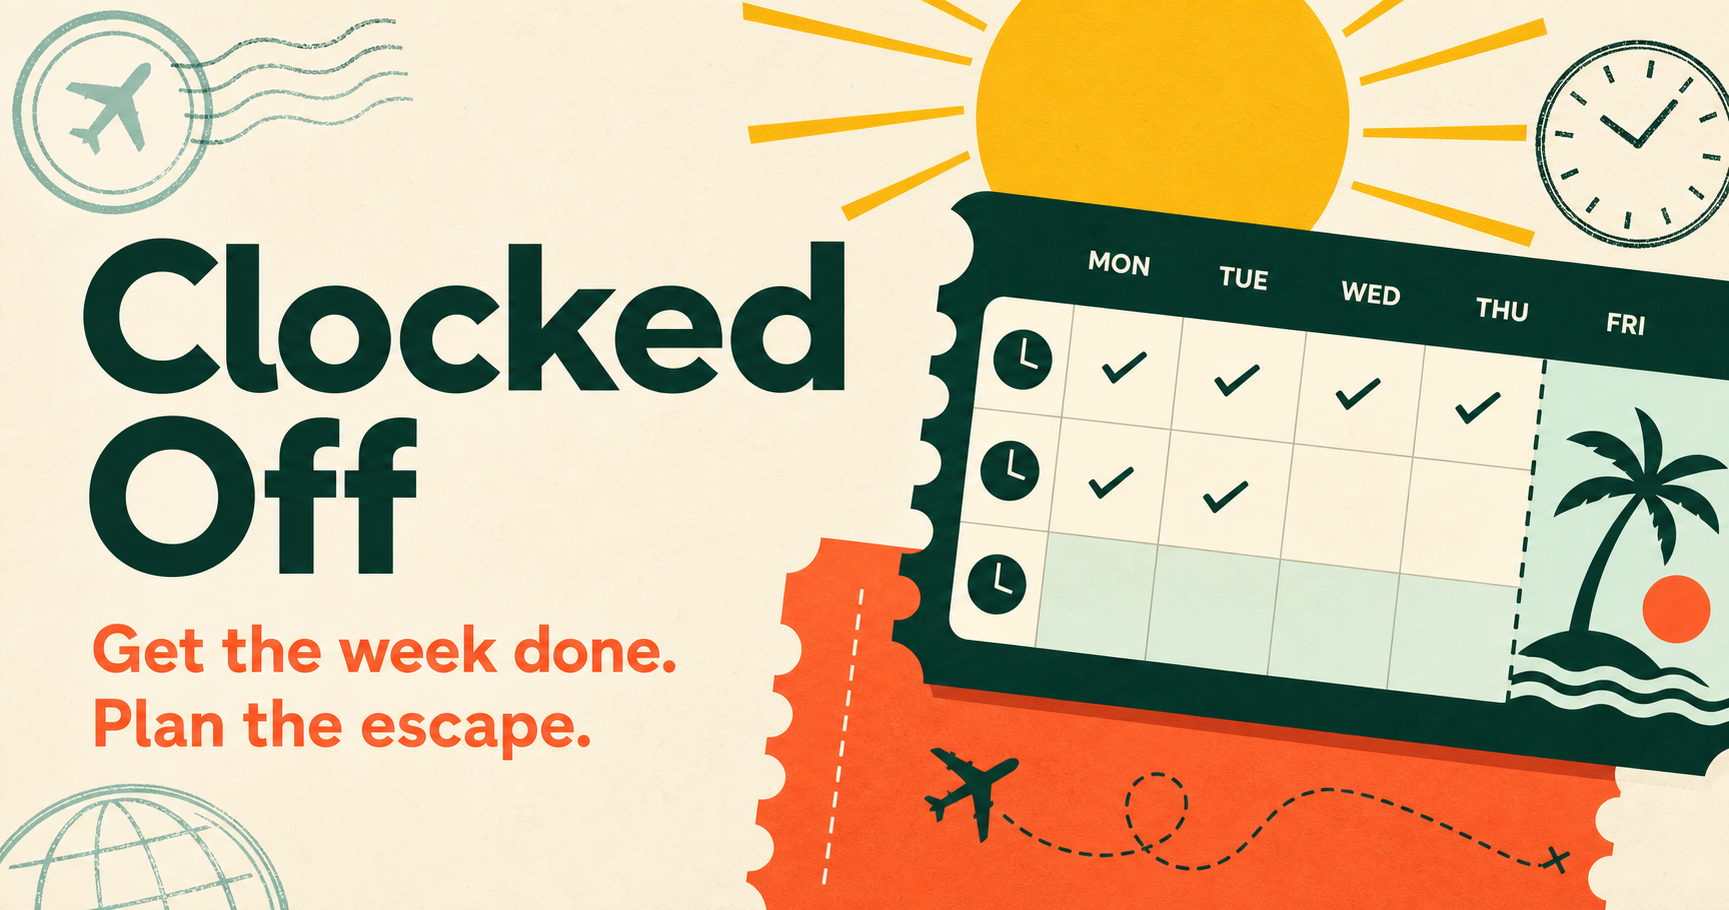
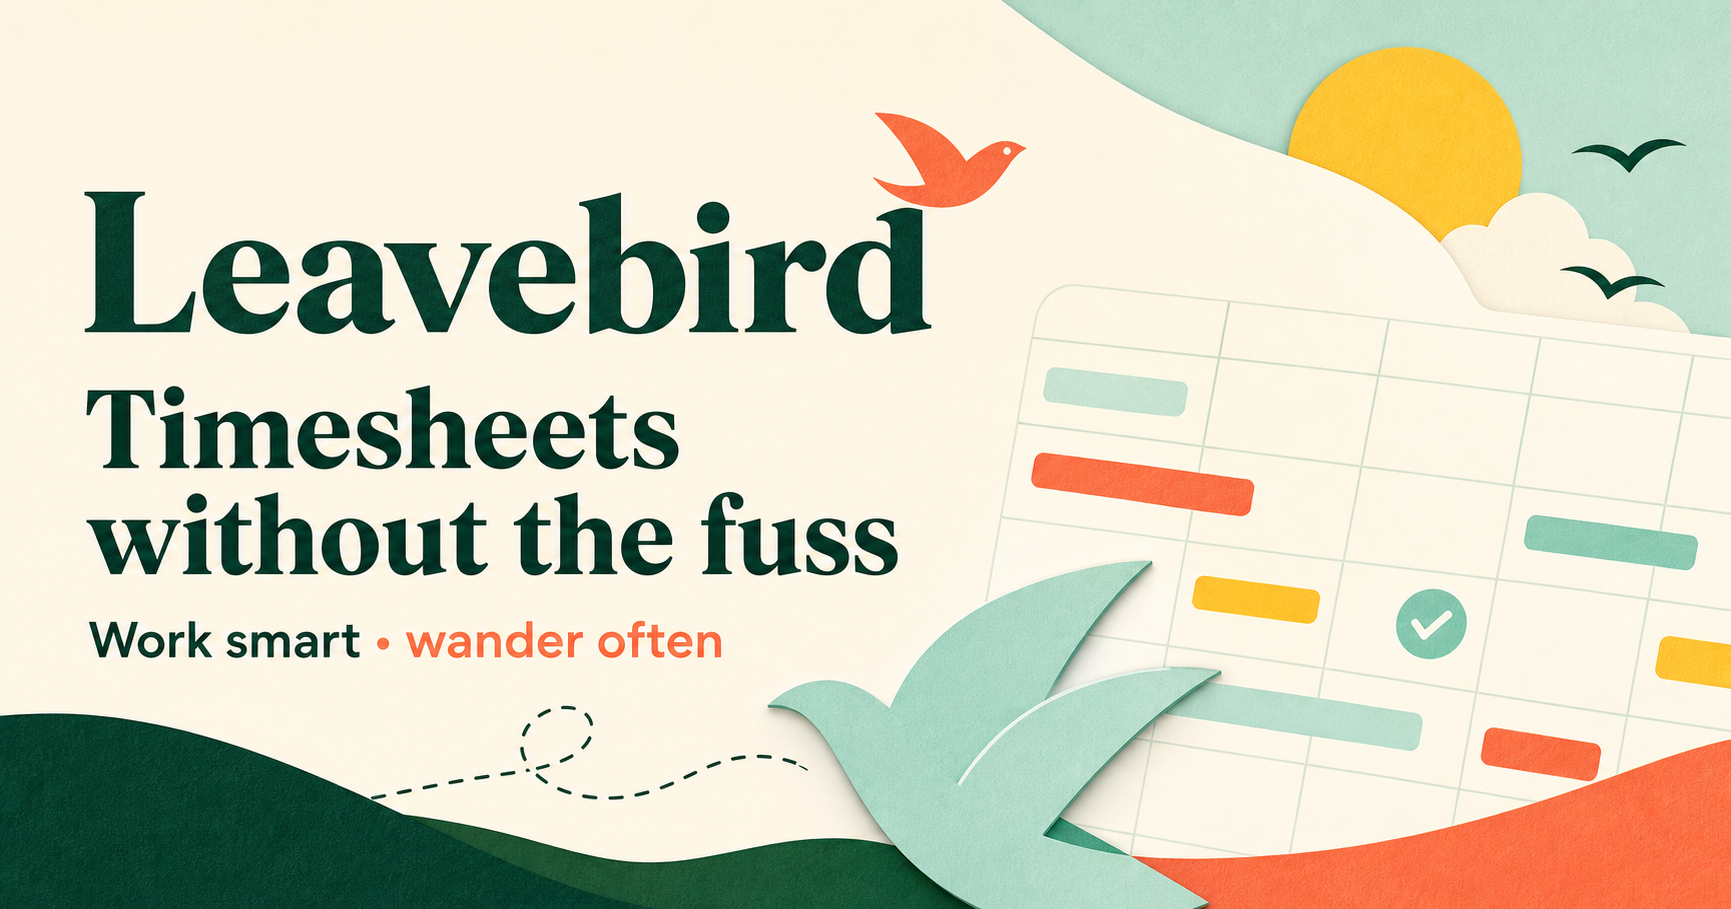
Rebrand Clocked Off as Leavebird (#3)

diff --git a/app/page.tsx b/app/page.tsx
@@ -105,7 +105,7 @@ export default function Home() {
   };
   const exportData = () => {
     const blob = new Blob([JSON.stringify(store, null, 2)], { type: "application/json" }); const url = URL.createObjectURL(blob);
-    const a = document.createElement("a"); a.href = url; a.download = `clocked-off-backup-${keyOf(new Date())}.json`; a.click(); URL.revokeObjectURL(url);
+    const a = document.createElement("a"); a.href = url; a.download = `leavebird-backup-${keyOf(new Date())}.json`; a.click(); URL.revokeObjectURL(url);
   };
   const importData = async (file?: File) => {
     if (!file) return; try { const parsed = JSON.parse(await file.text()); setStore({ ...initialStore, ...parsed }); } catch { alert("That backup file could not be read."); }
@@ -130,7 +130,7 @@ export default function Home() {
     <main className="app-shell">
       <header className="topbar">
         <button className="brand" onClick={() => setTab("week")} aria-label="Go to this week">
-          <span className="brand-mark">↗</span><span><b>Clocked Off</b><small>work smart · wander often</small></span>
+          <span className="brand-mark">↗</span><span><b>Leavebird</b><small>work smart · wander often</small></span>
         </button>
         <nav aria-label="Main navigation">
           <button className={tab === "week" ? "active" : ""} onClick={() => setTab("week")}>This week</button>
@@ -201,7 +201,7 @@ export default function Home() {
         <Deals kind="holiday" />
       </>}
 
-      <footer><span><b>Clocked Off</b> · your time stays yours</span><span>Securely synced to your account</span></footer>
+      <footer><span><b>Leavebird</b> · your time stays yours</span><span>Securely synced to your account</span></footer>
     </main>
   );
 }
@@ -224,12 +224,12 @@ function AuthScreen({ onAuthenticated }: { onAuthenticated: (user: User) => void
   };
 
   return <main className="auth-shell">
-    <section className="auth-story"><div className="auth-brand"><span className="brand-mark">↗</span><b>Clocked Off</b></div><div><p className="eyebrow">YOUR TIME, ANYWHERE</p><h1>Get the week done.<br /><em>Plan the escape.</em></h1><p>Your timesheets, history and leave plans — waiting on every device.</p></div><div className="auth-stamps"><span>☀ LEAVE</span><span>✓ HOURS</span><span>↗ WEEKEND</span></div></section>
+    <section className="auth-story"><div className="auth-brand"><span className="brand-mark">↗</span><b>Leavebird</b></div><div><p className="eyebrow">YOUR TIME, ANYWHERE</p><h1>Get the week done.<br /><em>Plan the escape.</em></h1><p>Your timesheets, history and leave plans — waiting on every device.</p></div><div className="auth-stamps"><span>☀ LEAVE</span><span>✓ HOURS</span><span>↗ WEEKEND</span></div></section>
     <section className="auth-panel"><form onSubmit={submit}><p className="eyebrow coral">{mode === "login" ? "WELCOME BACK" : "MAKE IT YOURS"}</p><h2>{mode === "login" ? "Sign in to your time." : "Create your account."}</h2><p className="auth-copy">{mode === "login" ? "Your records are securely synced across your browsers and devices." : "Your existing browser timesheet will be brought into your new account automatically."}</p>
       <label>Email address<input type="email" autoComplete="email" required value={email} onChange={event => setEmail(event.target.value)} placeholder="you@example.com" /></label>
       <label>Password<input type="password" autoComplete={mode === "login" ? "current-password" : "new-password"} required minLength={mode === "register" ? 10 : undefined} value={password} onChange={event => setPassword(event.target.value)} placeholder={mode === "register" ? "At least 10 characters" : "Your password"} /></label>
       {error && <p className="auth-error" role="alert">{error}</p>}<button className="auth-submit" disabled={busy}>{busy ? "One moment…" : mode === "login" ? "Sign in ↗" : "Create account ↗"}</button>
-      <p className="auth-switch">{mode === "login" ? "New to Clocked Off?" : "Already have an account?"} <button type="button" onClick={() => { setMode(mode === "login" ? "register" : "login"); setError(""); }}>{mode === "login" ? "Create one" : "Sign in"}</button></p>
+      <p className="auth-switch">{mode === "login" ? "New to Leavebird?" : "Already have an account?"} <button type="button" onClick={() => { setMode(mode === "login" ? "register" : "login"); setError(""); }}>{mode === "login" ? "Create one" : "Sign in"}</button></p>
     </form></section>
   </main>;
 }
@@ -242,5 +242,5 @@ function Deals({ kind }: { kind: "weekend" | "holiday" }) {
     { tag: "PACK LIGHT", icon: "🌊", title: "Turn three leave days into a proper escape", copy: "Browse spontaneous city and beach breaks.", source: "lastminute.com", url: "https://www.lastminute.com/holidays/" },
     { tag: "DEAL SPOTTED", icon: "✈", title: "The long weekend is calling", copy: "Fresh travel deals and delightfully cheap flights.", source: "HolidayPirates", url: "https://www.holidaypirates.com/" },
   ];
-  return <section className={`deals ${kind}`}><div className="deals-title"><div><p className="eyebrow">{kind === "weekend" ? "CLOCKED-OFF PICKS" : "ESCAPE BOARD"}</p><h2>{kind === "weekend" ? "Make the weekend count." : "Give those leave days somewhere to go."}</h2></div><span>Handy links · not sponsored</span></div><div className="deal-cards">{deals.map(deal => <a key={deal.source} href={deal.url} target="_blank" rel="noreferrer"><div className="deal-icon">{deal.icon}</div><div><small>{deal.tag}</small><h3>{deal.title}</h3><p>{deal.copy}</p><b>Browse on {deal.source} <i>↗</i></b></div></a>)}</div></section>;
+  return <section className={`deals ${kind}`}><div className="deals-title"><div><p className="eyebrow">{kind === "weekend" ? "LEAVEBIRD PICKS" : "ESCAPE BOARD"}</p><h2>{kind === "weekend" ? "Make the weekend count." : "Give those leave days somewhere to go."}</h2></div><span>Handy links · not sponsored</span></div><div className="deal-cards">{deals.map(deal => <a key={deal.source} href={deal.url} target="_blank" rel="noreferrer"><div className="deal-icon">{deal.icon}</div><div><small>{deal.tag}</small><h3>{deal.title}</h3><p>{deal.copy}</p><b>Browse on {deal.source} <i>↗</i></b></div></a>)}</div></section>;
 }

diff --git a/app/layout.tsx b/app/layout.tsx
@@ -7,9 +7,9 @@ export async function generateMetadata(): Promise<Metadata> {
   const host = incoming.get("x-forwarded-host") || incoming.get("host") || "localhost:3000";
   const protocol = incoming.get("x-forwarded-proto") || (host.startsWith("localhost") ? "http" : "https");
   const image = `${protocol}://${host}/og.png`;
-  const title = "Clocked Off — Timesheets without the fuss";
+  const title = "Leavebird — Timesheets without the fuss";
   const description = "A playful, private timesheet and leave planner that securely syncs across your devices.";
-  return { title, description, icons: { icon: "/favicon.svg", shortcut: "/favicon.svg" }, openGraph: { title, description, images: [{ url: image, width: 1741, height: 910 }] }, twitter: { card: "summary_large_image", title, description, images: [image] } };
+  return { title, description, icons: { icon: "/favicon.svg", shortcut: "/favicon.svg" }, openGraph: { title, description, images: [{ url: image, width: 1731, height: 909 }] }, twitter: { card: "summary_large_image", title, description, images: [image] } };
 }
 
 export default function RootLayout({ children }: Readonly<{ children: React.ReactNode }>) {

diff --git a/README.md b/README.md
@@ -1,4 +1,4 @@
-# vinext-starter
+# Leavebird
 
 ## Postgres login branch
 
